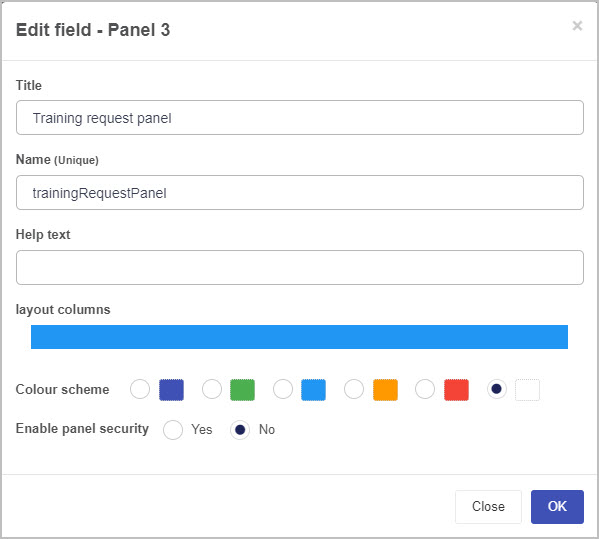
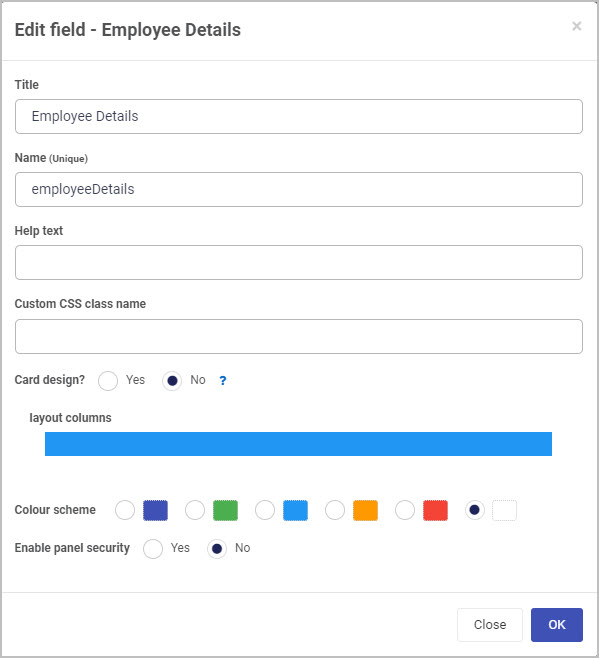
Added card design to Panel Layout

diff --git a/content/docs/platform/controls/layout/panel.md b/content/docs/platform/controls/layout/panel.md
@@ -60,58 +60,72 @@ To edit a **Panel**:
 
   You will learn more about the Field properties associated with Panels in [How to edit Panel Field properties](/docs/platform/controls/layout/panel#how-to-edit-panel-field-properties).
 
-- **Name (unique)** - This is a unique name for the Panel field.
+- **Name (unique)** - This is a unique name for the Panel field and inherits a camel case version of the entered Title.
 
 - **Help text** - You can insert text to help the form user to complete the Panel. 
 
   In our example, we could insert this help text to assist the user in completing the 'Employee Details' panel:
 
-	![Panel help text](/images/panel-help-text.jpg)
+  ![Panel help text](/images/panel-help-text.jpg)
 
   If you add help text, a question mark ![Help text icon](/images/help-icon.jpg) icon will appear next to the Panel title and, if the user clicks on this, they will see the help text you have inserted.
-  
+
   ![Panel help text displayed](/images/panel-help-text-shown.jpg)
+
+- **Custom CSS class name** - You can type the name of a CSS class to allow the panel to inherit specific styles defined in the [Global CSS file](/docs/low-code/global-css/).
+
+- **Card design?** - This option allows you to add a border radius to your panel, which rounds the edges. If you select the **Yes** radio button, you can choose between defining:
+
+  - The total border radius in pixels by clicking the all corners button ![Card design all symbol](/images/card-design-all-symbol.jpg) and entering a value into the input field.
+
+  - Each corner's border radius individually in pixels by clicking on the individual corners button ![individual corners button](/images/card-design-individual-symbol.jpg) and entering values for each corner in the four input fields
+
+    ![individual corners border radius](/images/card-design-individual-pixels.jpg)
+
+  This feature can give your forms an added level of unique styling.
+
+  ![card detail](/images/card-detail.jpg)
 
 - **Layout columns** - Here you can decide how wide you want your Panel to be in your form -  choose from 1 to 12 columns in width. For example click half-way across the blue bar to create a panel that is 6 columns wide, or click at the far right side of the blue bar to create a column that is 12 columns wide.
 
-	![Panel width](/images/layoutcolumns.png)
+  ![Panel width](/images/layoutcolumns.png)
 
 - **Colour scheme** - You can choose from six different colour options: navy, green, blue, amber, red, white. By default, the colour is set to white.
 
 - **Enable panel security** - If you want to restrict who can see the contents of the Panel, choose **Yes**. Two additional options will then be shown - '**Add security**' and '**Allow anonymous link**':
 
-	![Enable Panel security](/images/panel-enable-security.jpg)
+  ![Enable Panel security](/images/panel-enable-security.jpg)
 
-	To limit who can view the Panel contents, click the '**Add security**' button. A new row is displayed, within which you can select the user(s) or groups who will be able to vie the Panel:
+  To limit who can view the Panel contents, click the '**Add security**' button. A new row is displayed, within which you can select the user(s) or groups who will be able to vie the Panel:
 
-	![Panel add security](/images/panel-add-security.jpg)
+  ![Panel add security](/images/panel-add-security.jpg)
 
-	In **Field security**, you can choose from **three options in terms of who will be able to view the Panel you are inserting**: User or group, User picker field or Form owner(s).
-	
-	(i) If you choose to limit the Panel visibility to a '**User or group**', you can then select the user(s) or groups you want to be able to see it in the 'Select user(s) or groups' box.
-	
-	(ii) If you choose to limit the Panel visibility to a '**User picker field**', you then select the User picker field in the 'Select a userpicker field' box:
-	
-	![Panel security visibility limited to User picker field](/images/panel-security-user-picker.jpg)
-	
-	This will limit the visibility of the Panel to the user(s) selected in that User picker field.
-	
-	(iii) If you choose to limit the Panel visibility to '**Form owner(s)**', you then select the form in the 'Select a form' box - only the owner(s) of the selected form will be able to view the Panel you are inserting:
-	
-	![Panel security visibility limited to Form owner](/images/panel-security-form-owner.jpg)
-	
-	
-	
-	The second main option in terms of Panel security is '**Allow anonymous link**':
-	
-	![Panel allow anonymous link](/images/panel-security-link.jpg)
-	
-	- If you choose **Yes**, this will mean that the Panel will be visible when the form is accessed via an anonymous link. 
-	
-	- If you choose **No**, anyone accessing the form from an anonymous link will not be able to see the Panel.
-	
-	Anonymous links can be useful if, for example, you want members of the public to complete your form without needing to log into Kianda. To learn more about how you can create anonymous links to a form that can be shared with external users, see [Anonymous form link](/docs/platform/rules/communications/anonymous-form-link/).
-	
+  In **Field security**, you can choose from **three options in terms of who will be able to view the Panel you are inserting**: User or group, User picker field or Form owner(s).
+
+  (i) If you choose to limit the Panel visibility to a '**User or group**', you can then select the user(s) or groups you want to be able to see it in the 'Select user(s) or groups' box.
+
+  (ii) If you choose to limit the Panel visibility to a '**User picker field**', you then select the User picker field in the 'Select a userpicker field' box:
+
+  ![Panel security visibility limited to User picker field](/images/panel-security-user-picker.jpg)
+
+  This will limit the visibility of the Panel to the user(s) selected in that User picker field.
+
+  (iii) If you choose to limit the Panel visibility to '**Form owner(s)**', you then select the form in the 'Select a form' box - only the owner(s) of the selected form will be able to view the Panel you are inserting:
+
+  ![Panel security visibility limited to Form owner](/images/panel-security-form-owner.jpg)
+
+  
+
+  The second main option in terms of Panel security is '**Allow anonymous link**':
+
+  ![Panel allow anonymous link](/images/panel-security-link.jpg)
+
+  - If you choose **Yes**, this will mean that the Panel will be visible when the form is accessed via an anonymous link. 
+
+  - If you choose **No**, anyone accessing the form from an anonymous link will not be able to see the Panel.
+
+  Anonymous links can be useful if, for example, you want members of the public to complete your form without needing to log into Kianda. To learn more about how you can create anonymous links to a form that can be shared with external users, see [Anonymous form link](/docs/platform/rules/communications/anonymous-form-link/).
+
 
 3. Once you are finished editing the **Panel** in the **Edit field** dialog box, click on the **OK** button ![OK button](/images/ok.png) to save your changes or click on **Close** to exit the dialog box without saving.
 
